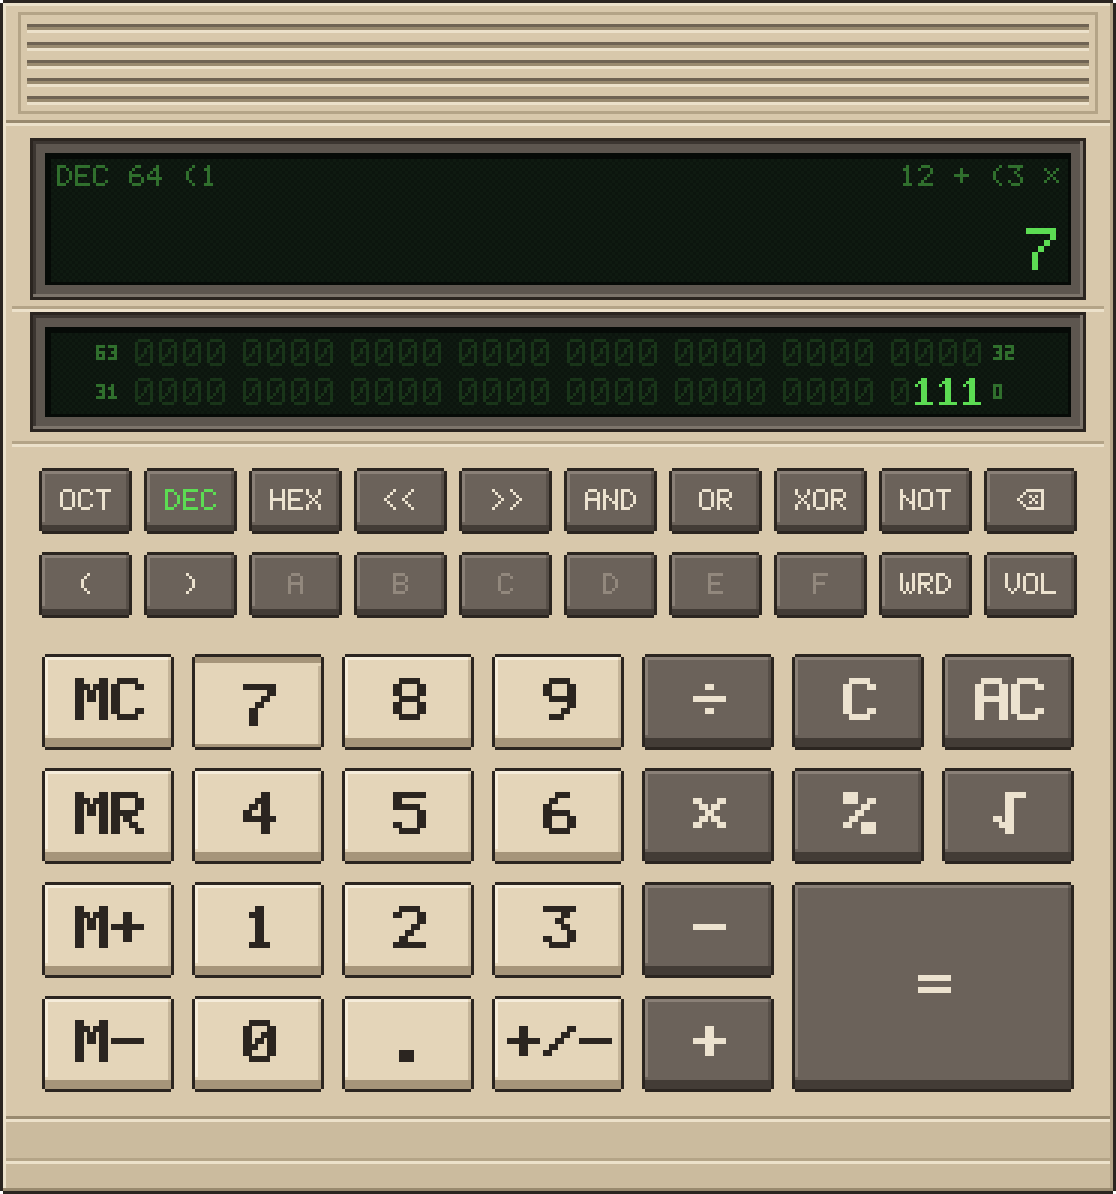
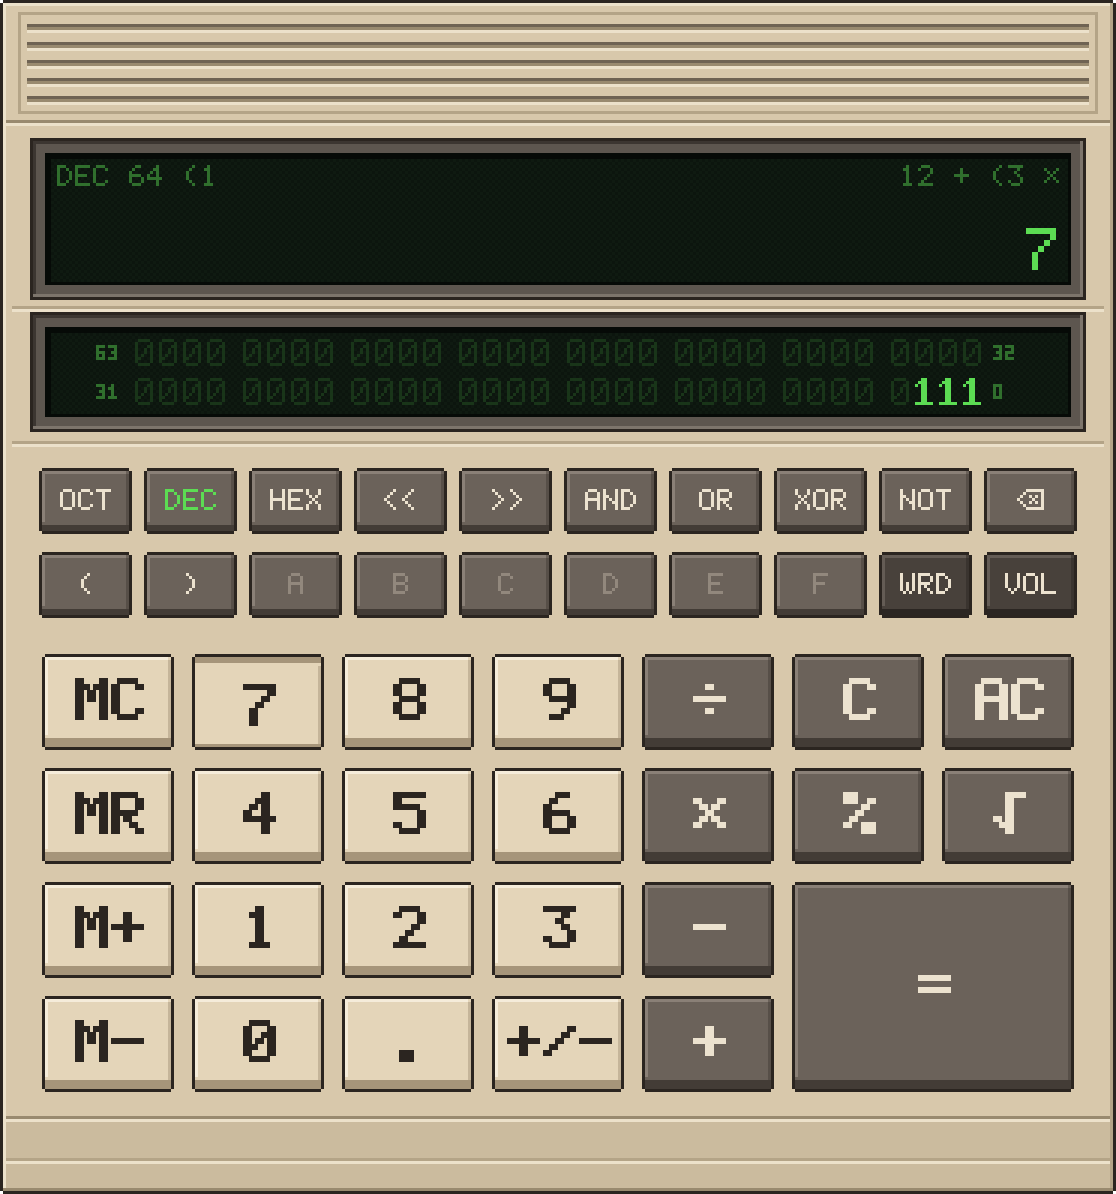
Made the word and volume button a bit darker.

Changed region(s): [[0.7921, 0.4648, 0.9749, 0.5268]]

diff --git a/ui/render.go b/ui/render.go
@@ -62,6 +62,7 @@ var (
 
 	lightKey = keyColors{face: rgb(0xe4d5b9), hi: rgb(0xf5ecda), side: rgb(0xa6957a), text: rgb(0x2b2520)}
 	darkKey  = keyColors{face: rgb(0x6b625a), hi: rgb(0x8a8077), side: rgb(0x433c36), text: rgb(0xece2cf)}
+	deepKey  = keyColors{face: rgb(0x48413b), hi: rgb(0x645c55), side: rgb(0x2b2622), text: rgb(0xece2cf)}
 )
 
 type keyColors struct{ face, hi, side, text color.RGBA }
@@ -72,7 +73,8 @@ type Key struct {
 	Label string
 	Rect  image.Rectangle
 	Dark  bool
-	Scale int // label scale (1 small keys, 2 main keys)
+	Deep  bool // a dark key a shade darker: the keys that open a pop-up
+	Scale int  // label scale (1 small keys, 2 main keys)
 }
 
 // Display regions (glass, inside the bezel).
@@ -90,7 +92,8 @@ func buildKeys() []Key {
 		for i := range ids {
 			x := 13 + i*35
 			y := smallKeysY + row*28
-			ks = append(ks, Key{ID: ids[i], Label: labels[i], Rect: image.Rect(x, y, x+31, y+22), Dark: true, Scale: 1})
+			deep := ids[i] == "ws" || ids[i] == "snd"
+			ks = append(ks, Key{ID: ids[i], Label: labels[i], Rect: image.Rect(x, y, x+31, y+22), Dark: true, Deep: deep, Scale: 1})
 		}
 	}
 	small(0,
@@ -297,7 +300,10 @@ func (c canvas) lcd(g image.Rectangle, bezel int) {
 
 func (c canvas) key(k Key, pressed, active, enabled bool) {
 	pal := lightKey
-	if k.Dark {
+	switch {
+	case k.Deep:
+		pal = deepKey
+	case k.Dark:
 		pal = darkKey
 	}
 	r := k.Rect

diff --git a/CLAUDE.md b/CLAUDE.md
@@ -39,6 +39,7 @@ Pay technical debt down as part of every feature and fix; do not let cruft build
 - Everything visible is drawn in `ui` at art-pixel resolution with `canvas` primitives (`fill`, `bevel`, `text`, `tiny`, `key`, `lcd`, `popup`) and the palette at the top of `render.go`. Never draw with Qt directly; new UI elements (like the menu) are pixel art in `ui`, styled like the keys.
 - `lcd` draws a display's glass in a frame of a given width: `displayBezel` (6) for the main and binary displays, `volBezel` (4) for the volume slider's readout. Below 4 no grey shows.
 - 5x7 glyphs are 5 wide except a few symbols drawn wider (`⌫` is 9); `text` and `textWidth` lay them out by `glyphAdvance`. The main display's digit cells still assume `advance`.
+- Keys come in three shades, `lightKey`, `darkKey` and `deepKey` (`Key.Dark`, `Key.Deep`); the keys that open a pop-up, WRD and VOL, are deep.
 - In a pop-up the highlighted item is a light key with dark text, even when it is the current choice; the current choice is lit green only when not highlighted.
 - Bright `cLCD` is for values (the main display's number, set bits, the volume readout's level); labels and indicators (the status line, bit indices, the volume slider's lit groove) are `cLCDDim`.
 - `draw.go` stretches the frame to fill the window (each axis independently) using "sharp bilinear": a nearest-neighbour enlargement to a whole multiple, then one smooth shrink. Mouse positions map back with `toVirtual`.
